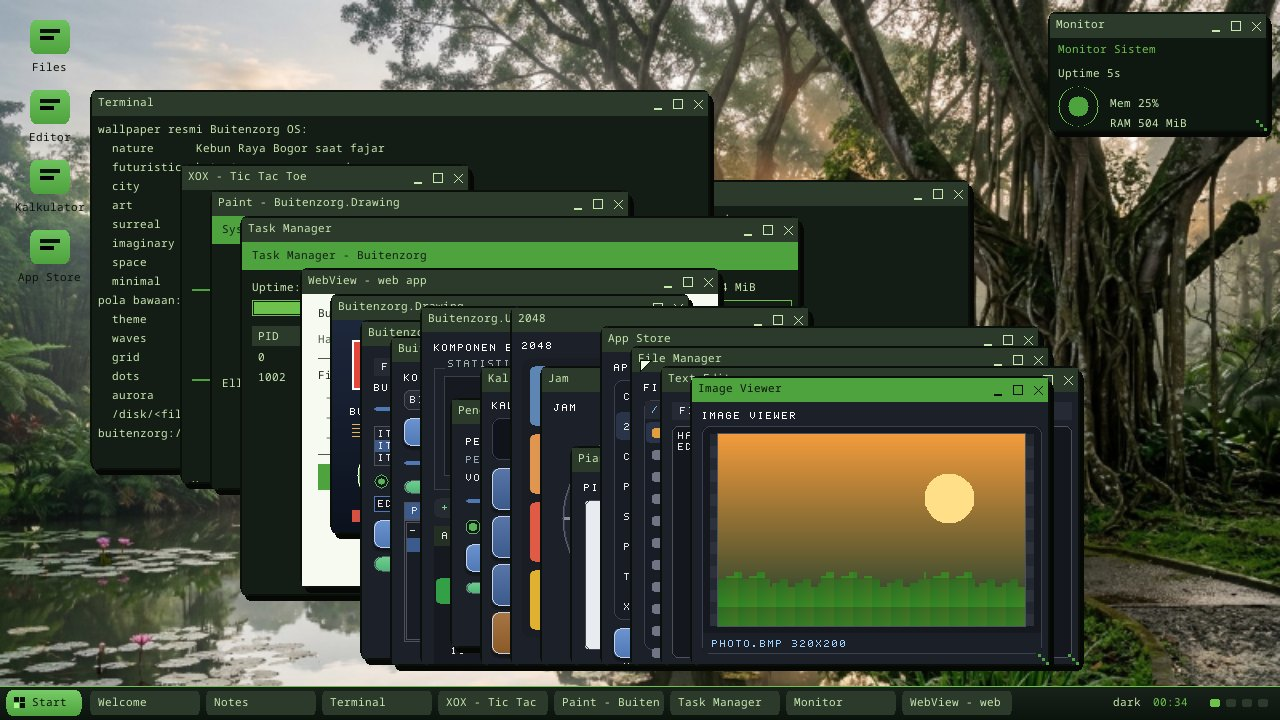
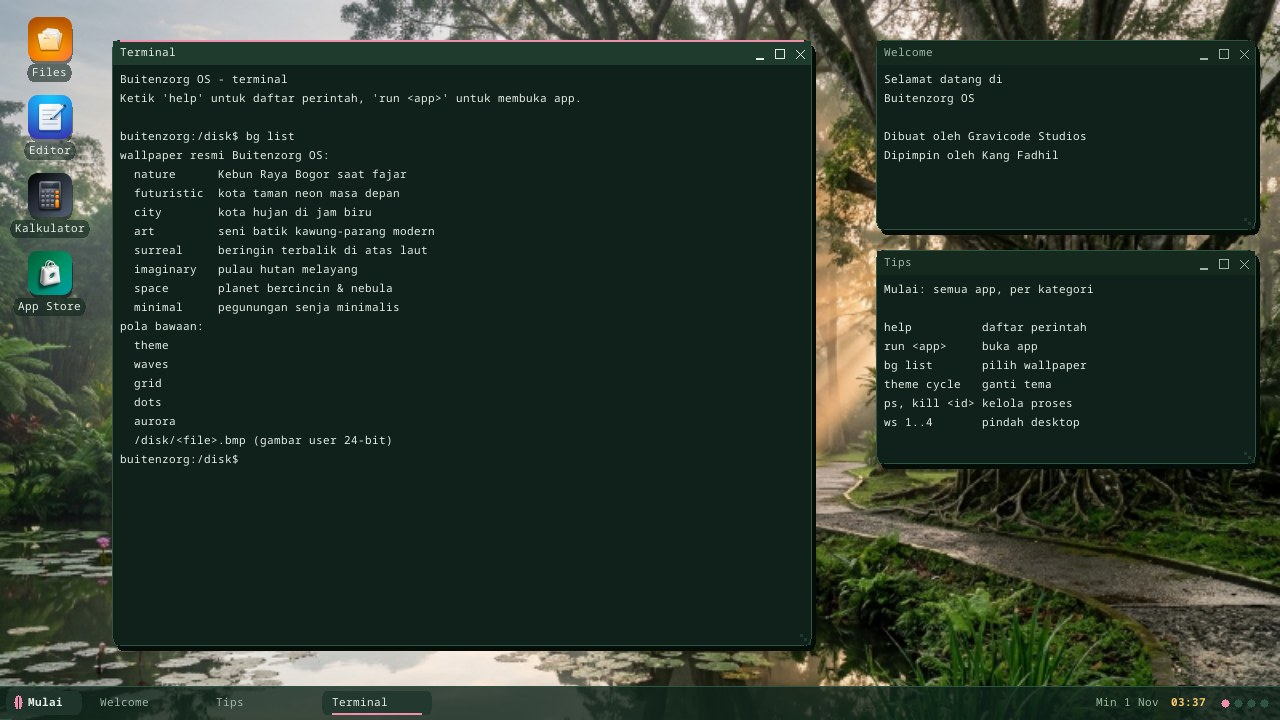
docs: retake wallpaper screenshots on the new kebun desktop
All eight official wallpapers re-shot on an empty workspace with the
current shell (kebun glass taskbar, Mulai button, AI app icons), the
in-use shot of 'bg list' on the tidy session, and a rebuilt labelled
4x2 gallery.

diff --git a/Buitenzorg/CLAUDE.md b/Buitenzorg/CLAUDE.md
@@ -90,7 +90,7 @@ Several ring-3 programs run at once, preemptively, each in its own address space
 
 **App icons (2026-11-01):** ten AI-generated icons (`assets/icons/<launch-name>.jpg`, 256 px baseline JPEG) → `bzimage/build.rs` `build_icon_pack` (box-filter to 44 px + 18 px, 4×4-supersampled rounded-square alpha) → `/disk/ICONS.BIN` ("BZIC" v1: count, sizes, then per icon a 12-byte name + big + small little-endian ARGB). `icons.rs` loads it once after `/disk` is mounted (`MILESTONE: ICONS OK`); `wm.rs` `draw_app_icon` blends by **launch name** (must match `LAUNCH` and `APP_ICONS` in build.rs) and falls back to a per-app colored tile + initial (`FALLBACK_COLORS`) when the pack is absent (AHCI/NVMe/USB boots). Desktop icon cells are 70 px tall.
 
-**Official wallpapers (2026-11-01):** eight AI-generated wallpapers (`wallpaper::OFFICIAL`: nature [default], futuristic, city, art, surreal, imaginary, space, minimal) live as **baseline** JPEGs in `assets/wallpapers/`. `bzimage/build.rs` (build-dependency `jpeg-decoder`) decodes them, box-filters to 800×450 and stores 24-bit BMPs on `/disk` (`WPNATURE.BMP`, … — keep `OFFICIAL_WALLPAPERS` in build.rs and `OFFICIAL` in wallpaper.rs in sync). `wallpaper.rs` resamples an image to the screen once (bilinear, 8.8 fixed point) and caches it, so `paint` is one `copy_from_slice`. Shell `bg list` / `bg <name>`; `MILESTONE: WALLPAPERS OK` (IDE-only). The BIOS image is now ~14 MB. Screenshots of each are in `docs/img/wallpapers/` (taken on workspace 2, which has no windows).
+**Official wallpapers (2026-11-01):** eight AI-generated wallpapers (`wallpaper::OFFICIAL`: nature [default], futuristic, city, art, surreal, imaginary, space, minimal) live as **baseline** JPEGs in `assets/wallpapers/`. `bzimage/build.rs` (build-dependency `jpeg-decoder`) decodes them, box-filters to 800×450 and stores 24-bit BMPs on `/disk` (`WPNATURE.BMP`, … — keep `OFFICIAL_WALLPAPERS` in build.rs and `OFFICIAL` in wallpaper.rs in sync). `wallpaper.rs` resamples an image to the screen once (bilinear, 8.8 fixed point) and caches it, so `paint` is one `copy_from_slice`. Shell `bg list` / `bg <name>`; `MILESTONE: WALLPAPERS OK` (IDE-only). The BIOS image is now ~14 MB. Screenshots of each are in `docs/img/wallpapers/` (retaken on the kebun desktop, on workspace 3 which has no windows; wait ~10 s per `bg <name>` before `screendump` with 2 CPUs or the shot shows the previous wallpaper).
 
 **SMP increment 5 — fine-grained locking (2026-11-01):** syscalls whose handlers touch only state behind its own lock run **without the BKL** (`syscall::bkl_free`): MMAP/MPROTECT/MUNMAP (paging context `memory::CTX` → `ARENAS`, always in that order), YIELD/THREAD_SELF/FUTEX_WAIT/FUTEX_WAKE (scheduler lock; `task::futex_wait_if` compares the user word and blocks in one step under it, so no wake-up is lost), DEBUG_WRITE (serial + console locks), ABI_VERSION, IS_INTERACTIVE. Everything else still takes the BKL. Rules learned here: **(1)** "servicing a ring-3 syscall" (which enables pointer validation) is **per-task** state (`task::set_in_user_syscall`, mirrored per CPU and saved/restored on switch) — it was a global flag, so a kernel-internal `dispatch` on one CPU could have switched off validation of another CPU's user pointers (a syscall can also yield and resume elsewhere); **(2)** **never TLB-shootdown while holding a lock**: another CPU may spin on that lock with IF off and never ack — `memory::unmap_user_pages` now only unmaps and returns the frames, `release_frames` shoots down with no lock held and *then* frees them (freeing first would let a CPU reach a recycled frame); `user_mprotect` shoots down after releasing `CTX`; **(3)** the shootdown waits with interrupts **enabled** (two concurrent shootdowns must ack each other). `syscall::set_fine_locking(false)` restores the all-BKL behavior. Verified by `smp_finelock_demo` (`userland/hello-csharp/smpsys.cs` → `SMPSYS.ELF`: one copy per CPU loops mmap → stamp → mprotect RO → verify → munmap → THREAD_SELF for ~1.5 s, run once all-BKL and once fine-grained) → `MILESTONE: SMP FINELOCK OK`: pages intact in both runs, BKL-free syscalls in the kernel on several CPUs at once (peak = CPU count), BKL waits ~7000 → ~5, throughput ×1.4 with `-smp 2` and ×2.25 with `-smp 4`; negative control (fine path off) fails with 0 BKL-free syscalls. Next candidates for their own locks: the window manager (WIN_* / KEY_READ — the busiest syscalls of the GUI apps), VFS/FAT, process registry.
 
